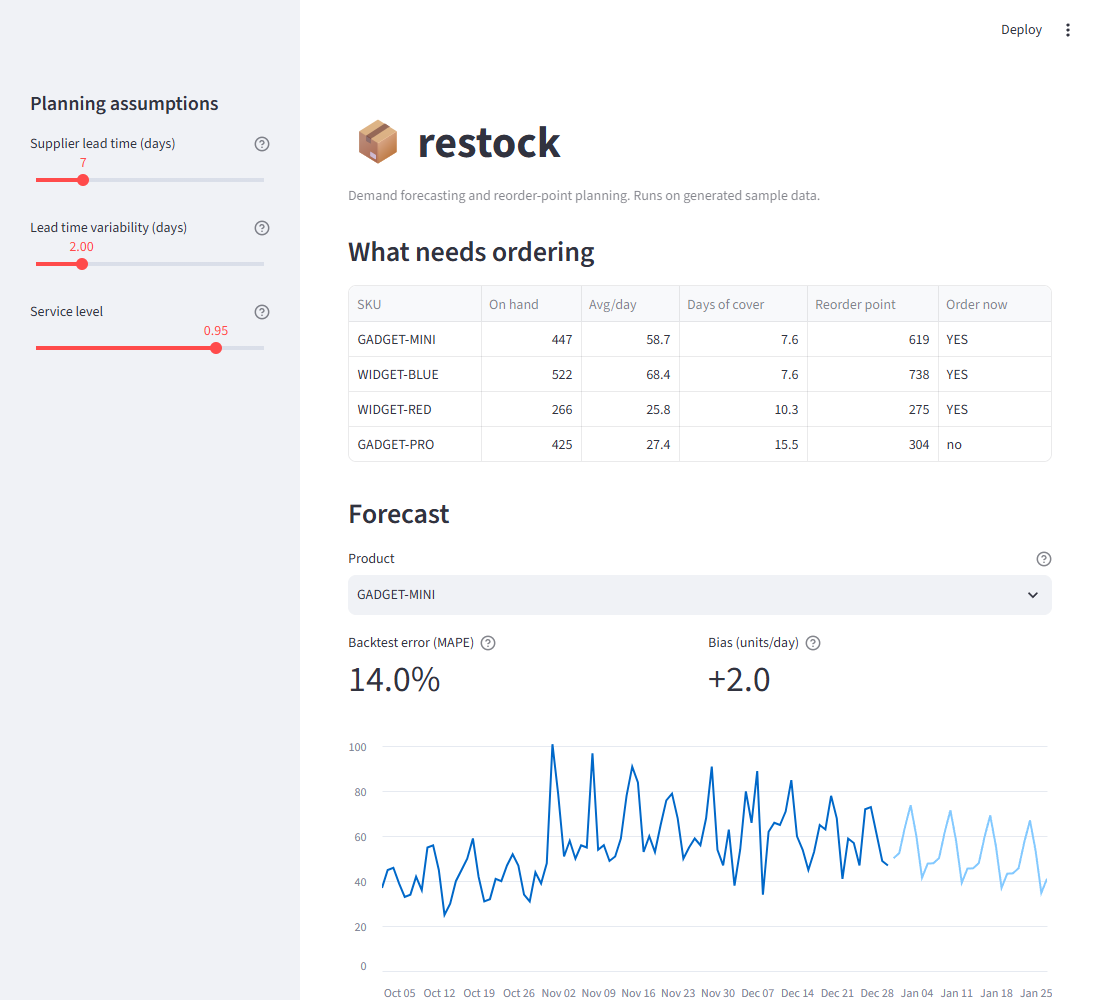
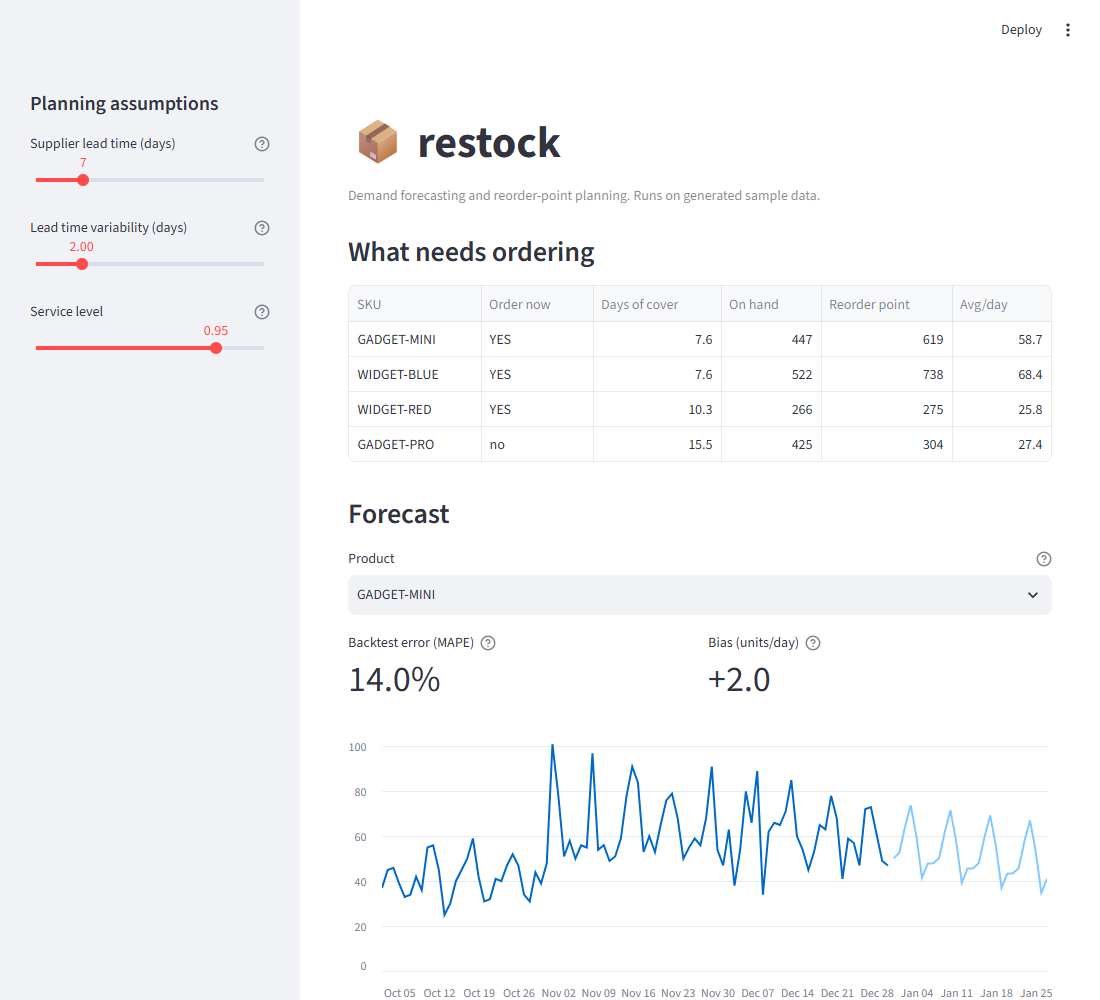
Lead the at-risk table with the decision
Checked the dashboard at phone width and 'Order now' - the column the table
exists to answer - was off-screen past the horizontal scroll. SKU, Order now
and Days of cover now fit without scrolling on a 390px screen.

diff --git a/app.py b/app.py
@@ -130,14 +130,16 @@ def at_risk_table(
         seed = zlib.crc32(str(sku).encode("utf-8"))
         position = np.random.default_rng(seed).uniform(*STOCK_POSITION_RANGE)
         on_hand = policy.reorder_point * float(position)
+        # Decision first. On a narrow screen the table scrolls sideways, so the answer
+        # has to be in the columns you see without scrolling, not the last one.
         rows.append(
             {
                 "SKU": sku,
-                "On hand": round(on_hand),
-                "Avg/day": round(demand_mean, 1),
-                "Days of cover": round(days_of_cover(on_hand, demand_mean), 1),
-                "Reorder point": round(policy.reorder_point),
                 "Order now": "YES" if on_hand <= policy.reorder_point else "no",
+                "Days of cover": round(days_of_cover(on_hand, demand_mean), 1),
+                "On hand": round(on_hand),
+                "Reorder point": round(policy.reorder_point),
+                "Avg/day": round(demand_mean, 1),
             }
         )
     return pd.DataFrame(rows).sort_values("Days of cover").reset_index(drop=True)
